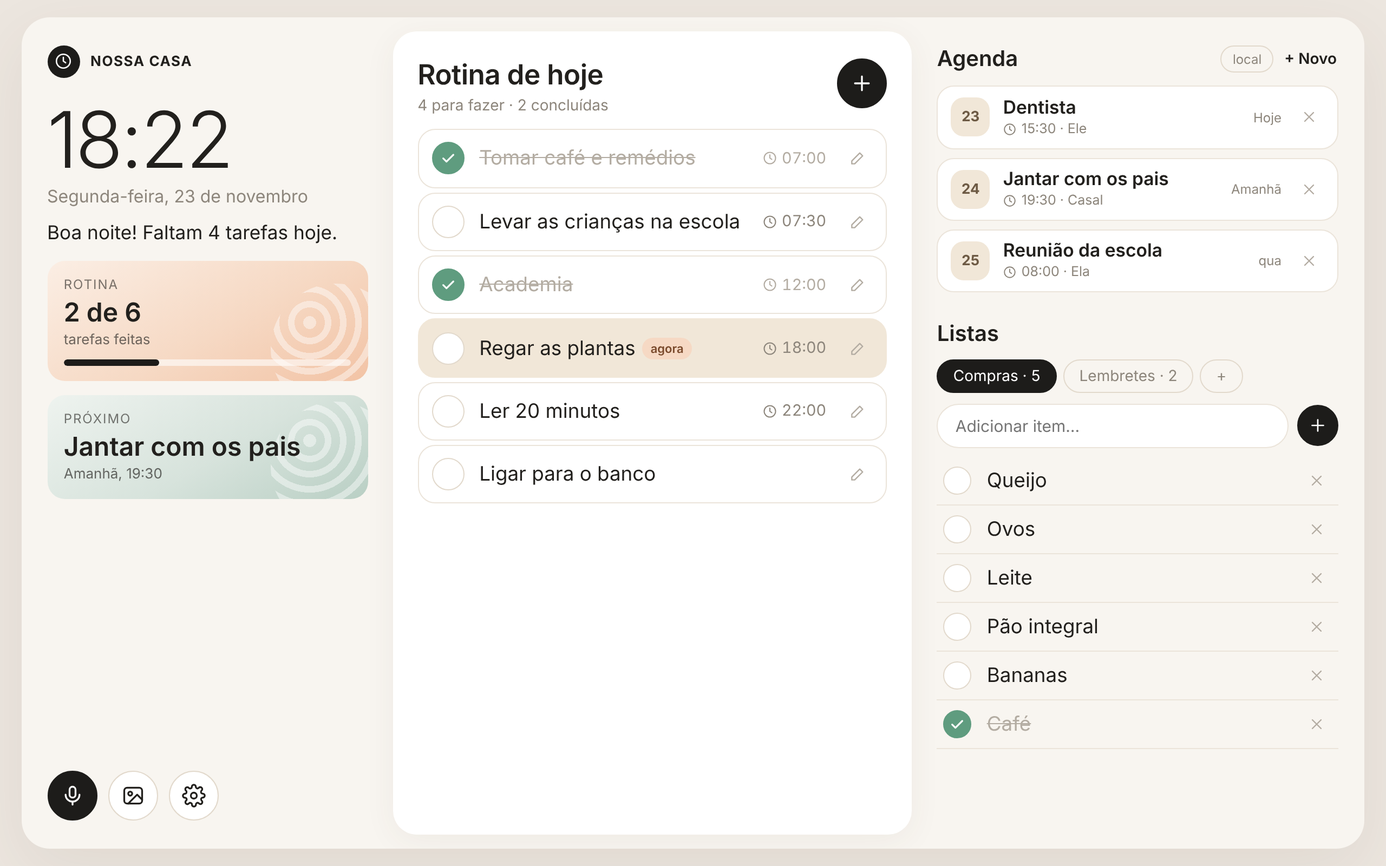
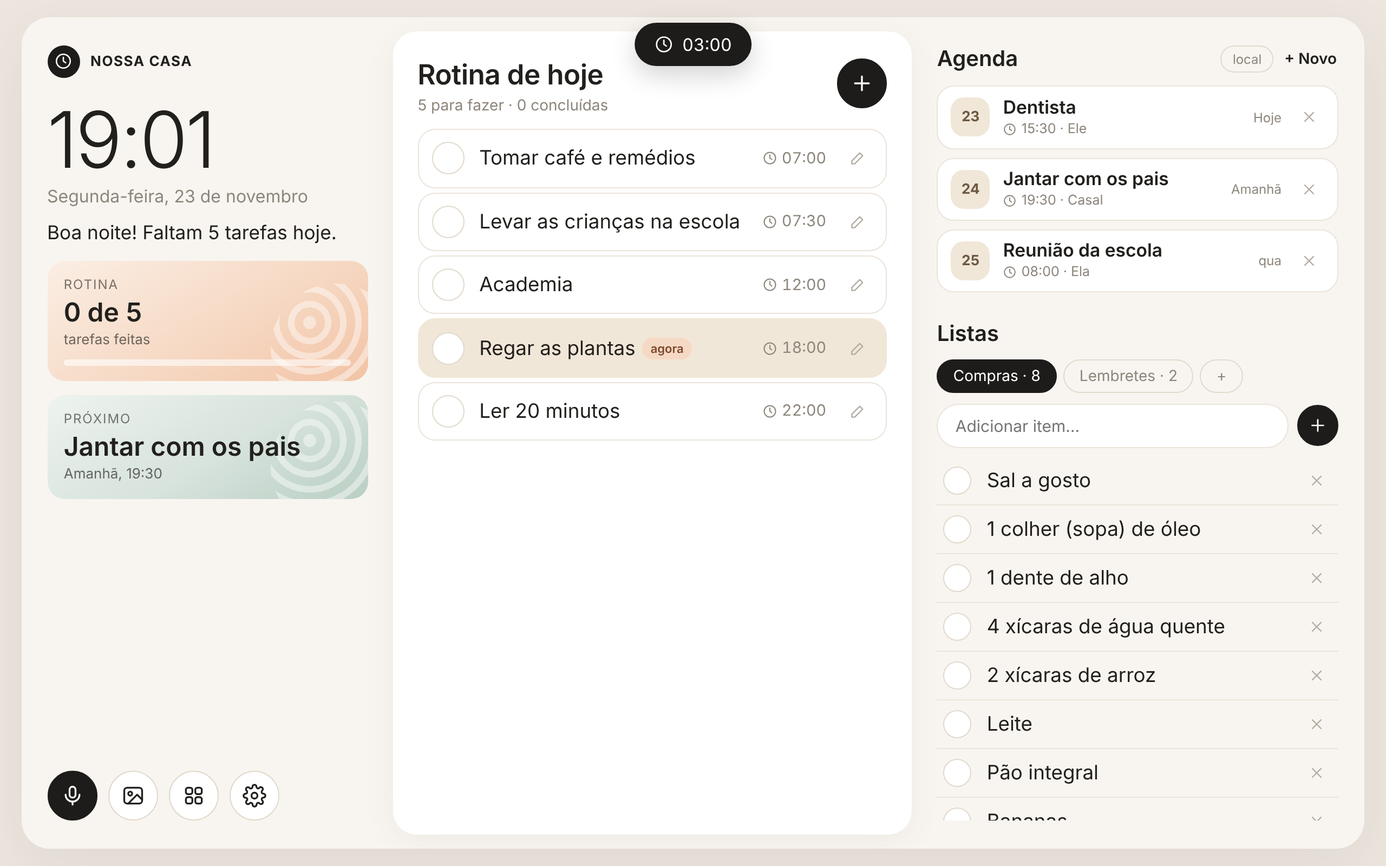
Painel da Casa: menu Mais funções com timer, cronômetro, pesquisa e receitas
Claude-Session: https://claude.ai/code/session_015vtG33z1dmpTi3uuNyJ4fA

diff --git a/painel-da-casa/app.js b/painel-da-casa/app.js
@@ -51,7 +51,8 @@
       },
       activeList: 'Compras',
       settings: { standbyMin: 3, slideSec: 12, feedUrl: '', voiceRate: 1 },
-      gcal: { events: [], at: 0 }
+      gcal: { events: [], at: 0 },
+      recipes: seedRecipes()
     };
   }
   var S;
@@ -215,8 +216,9 @@
   });
 
   // ---------- modal / formulários ----------
-  function openModal(title, html, onReady) {
+  function openModal(title, html, onReady, wide) {
     $('#modalTitle').textContent = title; $('#modalBody').innerHTML = html;
+    $('.modal-box').classList.toggle('wide', !!wide); $('.modal-box').scrollTop = 0;
     $('#modal').classList.remove('hidden'); if (onReady) onReady($('#modalBody'));
   }
   function closeModal() { $('#modal').classList.add('hidden'); }
@@ -455,6 +457,7 @@
   function handleCommand(raw) {
     var t = norm(raw).replace(/[.!?]/g, '').trim(), m;
     toast('🗣 "' + raw + '"', 2500);
+    if (extrasCommand(t)) return;
     // "adicionar leite e ovos na lista de compras"
     if ((m = t.match(/^(?:adiciona(?:r)?|adicione|coloca(?:r)?|coloque|inclui(?:r)?|bota(?:r)?)\s+(.+?)\s+(?:na|a|à|nas|em)\s+(?:lista\s+(?:de\s+|do\s+|da\s+)?)?(.+)$/))) {
       var listName = findList(m[2]);
@@ -515,6 +518,241 @@
   $('#micBtn').addEventListener('click', startListening);
   if (window.speechSynthesis) speechSynthesis.onvoiceschanged = function () {};
   window.painelComando = handleCommand; // para testes no console
+
+  // ---------- mais funções: timer, cronômetro, pesquisa, receitas ----------
+  if (!S.recipes) S.recipes = seedRecipes();
+  function seedRecipes() {
+    return [
+      { id: uid(), title: 'Bolo de cenoura', time: 40, serves: '10 fatias', tag: 'Doce',
+        ingredients: ['3 cenouras médias', '3 ovos', '1 xícara de óleo', '2 xícaras de açúcar', '2 xícaras de farinha de trigo', '1 colher (sopa) de fermento'],
+        steps: 'Bata no liquidificador a cenoura, os ovos e o óleo.\nMisture com o açúcar e a farinha, e por último o fermento.\nAsse em forno médio (180 °C) por cerca de 40 minutos.' },
+      { id: uid(), title: 'Arroz soltinho', time: 20, serves: '4 pessoas', tag: 'Básico',
+        ingredients: ['2 xícaras de arroz', '4 xícaras de água quente', '1 dente de alho', '1 colher (sopa) de óleo', 'Sal a gosto'],
+        steps: 'Refogue o alho no óleo e junte o arroz.\nAcrescente a água quente e o sal.\nCozinhe em fogo baixo com a panela semitampada até secar (cerca de 20 minutos).' }
+    ];
+  }
+  function fmtClock(ms, withTenths) {
+    ms = Math.max(0, ms); var s = Math.floor(ms / 1000), h = Math.floor(s / 3600), m = Math.floor(s / 60) % 60, ss = s % 60;
+    return (h ? h + ':' + pad(m) : pad(m)) + ':' + pad(ss) + (withTenths ? ',' + Math.floor(ms % 1000 / 100) : '');
+  }
+
+  // estado dos relógios (fica na memória enquanto o painel está aberto)
+  var T = { end: 0, total: 0, paused: 0, label: '', ringing: false };
+  var W = { start: 0, acc: 0, running: false, laps: [] };
+  var audioCtx = null, ringTimer = null;
+  function unlockAudio() {
+    var AC = window.AudioContext || window.webkitAudioContext; if (!AC) return;
+    if (!audioCtx) audioCtx = new AC();
+    if (audioCtx.state === 'suspended' && audioCtx.resume) audioCtx.resume();
+  }
+  function beep() {
+    if (!audioCtx) return;
+    [0, 0.25, 0.5].forEach(function (d) {
+      var o = audioCtx.createOscillator(), g = audioCtx.createGain(), t0 = audioCtx.currentTime + d;
+      o.frequency.value = 880; o.connect(g); g.connect(audioCtx.destination);
+      g.gain.setValueAtTime(0.0001, t0); g.gain.exponentialRampToValueAtTime(0.4, t0 + 0.02); g.gain.exponentialRampToValueAtTime(0.0001, t0 + 0.2);
+      o.start(t0); o.stop(t0 + 0.22);
+    });
+  }
+  function startTimer(min, label) {
+    unlockAudio(); stopRing();
+    T.total = Math.round(min * 60000); T.end = Date.now() + T.total; T.paused = 0; T.label = label || '';
+    updatePill();
+  }
+  function stopRing() { T.ringing = false; clearInterval(ringTimer); updatePill(); }
+  function timerLeft() { return T.paused ? T.paused : (T.end ? T.end - Date.now() : 0); }
+  function clockTick() {
+    if (T.end && !T.paused && !T.ringing && Date.now() >= T.end) {
+      T.end = 0; T.ringing = true; beep(); ringTimer = setInterval(beep, 1500);
+      setTimeout(stopRing, 60000);
+      say((T.label ? T.label + ': ' : '') + 'o tempo acabou!');
+      if (inStandby) exitStandby();
+    }
+    updatePill();
+    var el = document.getElementById('tmDisplay');
+    if (el) {
+      el.textContent = T.ringing ? '00:00' : fmtClock(timerLeft() + (T.end && !T.paused ? 999 : 0));
+      var b = document.getElementById('tmBar'); if (b) b.style.width = (T.total && (T.end || T.paused) ? (1 - timerLeft() / T.total) * 100 : 0) + '%';
+    }
+    var sw = document.getElementById('swDisplay');
+    if (sw) sw.textContent = fmtClock(W.acc + (W.running ? Date.now() - W.start : 0), true);
+  }
+  setInterval(clockTick, 200);
+  function updatePill() {
+    var p = $('#timerPill'), on = T.ringing || T.end || T.paused || W.running;
+    p.classList.toggle('hidden', !on); p.classList.toggle('ringing', T.ringing);
+    if (!on) return;
+    var txt = T.ringing ? 'Tempo esgotado! Toque para parar' :
+      (T.end || T.paused) ? (T.label ? T.label + ' · ' : '') + fmtClock(timerLeft() + (T.paused ? 0 : 999)) + (T.paused ? ' (pausado)' : '') :
+      'Cronômetro · ' + fmtClock(W.acc + Date.now() - W.start);
+    $('#timerPillText').textContent = txt;
+  }
+  $('#timerPill').addEventListener('click', function () { if (T.ringing) stopRing(); else openTimer(); });
+
+  function openTimer(tab) {
+    tab = tab || (W.running && !T.end ? 'sw' : 'tm');
+    openModal('Cronômetro e timer',
+      '<div class="seg"><button data-tab="tm" class="' + (tab === 'tm' ? 'on' : '') + '">Timer</button><button data-tab="sw" class="' + (tab === 'sw' ? 'on' : '') + '">Cronômetro</button></div>' +
+      '<div id="tmPane" class="' + (tab === 'tm' ? '' : 'hidden') + '">' +
+        '<div class="big-clock" id="tmDisplay">00:00</div><div class="ring big"><div id="tmBar"></div></div>' +
+        '<div class="presets">' + [1, 3, 5, 10, 15, 20, 30, 45, 60].map(function (m) { return '<button data-min="' + m + '">' + m + ' min</button>'; }).join('') + '</div>' +
+        '<div class="row center"><input id="tmCustom" type="number" min="1" placeholder="min" class="mini-input"><button class="btn ghost" id="tmGo">Iniciar</button>' +
+        '<button class="btn ghost" id="tmPause">Pausar</button><button class="btn danger" id="tmStop">Zerar</button></div>' +
+      '</div>' +
+      '<div id="swPane" class="' + (tab === 'sw' ? '' : 'hidden') + '">' +
+        '<div class="big-clock" id="swDisplay">00:00,0</div>' +
+        '<div class="row center"><button class="btn" id="swStart"></button><button class="btn ghost" id="swLap">Volta</button><button class="btn danger" id="swReset">Zerar</button></div>' +
+        '<ol class="laps" id="swLaps"></ol>' +
+      '</div>', function (root) {
+        function swBtn() { $('#swStart').textContent = W.running ? 'Pausar' : (W.acc ? 'Continuar' : 'Iniciar'); }
+        function laps() { $('#swLaps').innerHTML = W.laps.map(function (l, i) { return '<li><span>Volta ' + (i + 1) + '</span><span>' + fmtClock(l, true) + '</span></li>'; }).reverse().join(''); }
+        function pauseLbl() { $('#tmPause').textContent = T.paused ? 'Continuar' : 'Pausar'; }
+        swBtn(); laps(); pauseLbl(); clockTick();
+        Array.prototype.forEach.call(root.querySelectorAll('.seg button'), function (b) {
+          b.onclick = function () {
+            var t = b.getAttribute('data-tab');
+            root.querySelectorAll('.seg button')[0].classList.toggle('on', t === 'tm'); root.querySelectorAll('.seg button')[1].classList.toggle('on', t === 'sw');
+            $('#tmPane').classList.toggle('hidden', t !== 'tm'); $('#swPane').classList.toggle('hidden', t !== 'sw');
+          };
+        });
+        root.querySelector('.presets').onclick = function (e) { var b = e.target.closest('[data-min]'); if (b) { startTimer(+b.getAttribute('data-min')); pauseLbl(); } };
+        $('#tmGo').onclick = function () { var v = +$('#tmCustom').value; if (v > 0) { startTimer(v); pauseLbl(); } };
+        $('#tmPause').onclick = function () {
+          if (T.paused) { T.end = Date.now() + T.paused; T.paused = 0; } else if (T.end) { T.paused = T.end - Date.now(); T.end = 0; }
+          pauseLbl(); updatePill();
+        };
+        $('#tmStop').onclick = function () { T.end = 0; T.paused = 0; T.total = 0; stopRing(); pauseLbl(); clockTick(); };
+        $('#swStart').onclick = function () {
+          if (W.running) { W.acc += Date.now() - W.start; W.running = false; } else { W.start = Date.now(); W.running = true; }
+          swBtn(); updatePill();
+        };
+        $('#swLap').onclick = function () { if (!W.running) return; W.laps.push(W.acc + Date.now() - W.start); laps(); };
+        $('#swReset').onclick = function () { W = { start: 0, acc: 0, running: false, laps: [] }; swBtn(); laps(); clockTick(); updatePill(); };
+      }, true);
+  }
+
+  // pesquisa web: abre em nova aba (sites não podem ser embutidos no painel)
+  function webSearch(q) {
+    if (!q) return;
+    window.open('https://www.google.com/search?q=' + encodeURIComponent(q), '_blank');
+  }
+  function openSearch() {
+    openModal('Pesquisar na web',
+      '<form id="wsForm" class="quick big"><input id="wsInput" placeholder="O que você quer pesquisar?" autocomplete="off"><button type="submit" class="round dark" aria-label="Pesquisar">' + ic('search') + '</button></form>' +
+      '<p class="hint">Abre o resultado em uma nova aba. Dica: diga "pesquisar previsão do tempo" no microfone.</p>' +
+      '<div class="presets left">' + ['Previsão do tempo', 'Notícias de hoje', 'Cotação do dólar', 'Farmácia aberta perto de mim', 'Receita de pão caseiro'].map(function (s) { return '<button data-q="' + esc(s) + '">' + esc(s) + '</button>'; }).join('') + '</div>',
+      function (root) {
+        $('#wsInput').focus();
+        $('#wsForm').onsubmit = function (e) { e.preventDefault(); webSearch($('#wsInput').value.trim()); };
+        root.querySelector('.presets').onclick = function (e) { var b = e.target.closest('[data-q]'); if (b) webSearch(b.getAttribute('data-q')); };
+      }, true);
+  }
+
+  // receitas
+  function openRecipes(filter) {
+    filter = filter || '';
+    openModal('Receitas',
+      '<div class="row"><form id="rcSearch" class="quick" style="flex:1;margin:0"><input id="rcQ" placeholder="Buscar receita ou ingrediente…" value="' + esc(filter) + '" autocomplete="off"></form>' +
+      '<button class="btn" id="rcNew">+ Nova receita</button></div>' +
+      '<div class="rc-grid" id="rcGrid"></div>', function () {
+        function draw() {
+          var q = norm($('#rcQ').value.trim());
+          var list = S.recipes.filter(function (r) { return !q || norm(r.title + ' ' + (r.tag || '') + ' ' + r.ingredients.join(' ')).indexOf(q) >= 0; })
+            .sort(function (a, b) { return a.title.localeCompare(b.title); });
+          $('#rcGrid').innerHTML = list.length ? list.map(function (r, i) {
+            return '<button class="rc-card c' + (i % 3) + '" data-id="' + r.id + '"><span class="rc-tag">' + esc(r.tag || 'Receita') + '</span>' +
+              '<span class="rc-title">' + esc(r.title) + '</span><span class="rc-meta">' + ic('clock') + (r.time ? r.time + ' min' : '—') + (r.serves ? ' · ' + esc(r.serves) : '') + '</span></button>';
+          }).join('') : '<p class="empty">Nenhuma receita encontrada.</p>';
+        }
+        draw();
+        $('#rcQ').oninput = draw; $('#rcSearch').onsubmit = function (e) { e.preventDefault(); };
+        $('#rcNew').onclick = function () { openRecipeForm(); };
+        $('#rcGrid').onclick = function (e) { var c = e.target.closest('[data-id]'); if (c) openRecipe(c.getAttribute('data-id')); };
+      }, true);
+  }
+  function findRecipe(id) { return S.recipes.filter(function (r) { return r.id === id; })[0]; }
+  function openRecipe(id) {
+    var r = findRecipe(id); if (!r) return;
+    openModal(r.title,
+      '<div class="rc-head"><span class="chip">' + esc(r.tag || 'Receita') + '</span>' + (r.time ? '<span class="chip">' + r.time + ' min</span>' : '') + (r.serves ? '<span class="chip">' + esc(r.serves) + '</span>' : '') + '</div>' +
+      '<div class="rc-body"><div><h4>Ingredientes</h4><ul class="rc-ing">' + r.ingredients.map(function (i) { return '<li>' + esc(i) + '</li>'; }).join('') + '</ul></div>' +
+      '<div><h4>Modo de preparo</h4><ol class="rc-steps">' + r.steps.split(/\n+/).filter(Boolean).map(function (s) { return '<li>' + esc(s) + '</li>'; }).join('') + '</ol></div></div>' +
+      '<div class="row">' + (r.time ? '<button class="btn" id="rcTimer">' + ic('clock') + ' Timer de ' + r.time + ' min</button>' : '') +
+      '<button class="btn ghost" id="rcShop">' + ic('cart') + ' Ingredientes nas compras</button>' +
+      '<button class="btn ghost" id="rcEdit">Editar</button><button class="btn ghost" id="rcBack">Voltar</button></div>', function () {
+        if (r.time) $('#rcTimer').onclick = function () { startTimer(r.time, r.title); closeModal(); toast('Timer de ' + r.time + ' min iniciado para ' + r.title + '.'); };
+        $('#rcShop').onclick = function () {
+          r.ingredients.forEach(function (i) { addToList('Compras', i); });
+          S.activeList = 'Compras'; save(); renderLists(); toast(r.ingredients.length + ' ingredientes adicionados em Compras.');
+        };
+        $('#rcEdit').onclick = function () { openRecipeForm(r); };
+        $('#rcBack').onclick = function () { openRecipes(); };
+      }, true);
+  }
+  function openRecipeForm(r) {
+    var isNew = !r; r = r || { title: '', time: '', serves: '', tag: '', ingredients: [], steps: '' };
+    openModal(isNew ? 'Nova receita' : 'Editar receita',
+      '<div class="field"><label>Nome</label><input id="rfTitle" value="' + esc(r.title) + '" placeholder="Ex.: Lasanha da vó"></div>' +
+      '<div class="row"><div class="field" style="flex:1"><label>Tempo (min)</label><input id="rfTime" type="number" min="0" value="' + esc(r.time) + '"></div>' +
+      '<div class="field" style="flex:1"><label>Rende</label><input id="rfServes" value="' + esc(r.serves) + '" placeholder="Ex.: 6 porções"></div>' +
+      '<div class="field" style="flex:1"><label>Categoria</label><input id="rfTag" value="' + esc(r.tag) + '" placeholder="Ex.: Doce, Almoço"></div></div>' +
+      '<div class="field"><label>Ingredientes (um por linha)</label><textarea id="rfIng" rows="6">' + esc(r.ingredients.join('\n')) + '</textarea></div>' +
+      '<div class="field"><label>Modo de preparo (um passo por linha)</label><textarea id="rfSteps" rows="6">' + esc(r.steps) + '</textarea></div>' +
+      '<div class="row"><button class="btn" id="rfSave">Salvar</button>' + (isNew ? '' : '<button class="btn danger" id="rfDel">Excluir</button>') + '<button class="btn ghost" id="rfCancel">Cancelar</button></div>',
+      function () {
+        $('#rfTitle').focus();
+        $('#rfSave').onclick = function () {
+          var t = $('#rfTitle').value.trim(); if (!t) return;
+          var data = { title: t, time: +$('#rfTime').value || 0, serves: $('#rfServes').value.trim(), tag: $('#rfTag').value.trim(),
+            ingredients: $('#rfIng').value.split('\n').map(function (x) { return x.trim(); }).filter(Boolean), steps: $('#rfSteps').value.trim() };
+          if (isNew) { data.id = uid(); S.recipes.push(data); } else { for (var k in data) r[k] = data[k]; }
+          save(); openRecipe(isNew ? data.id : r.id);
+        };
+        if (!isNew) $('#rfDel').onclick = function (ev) { if (confirmInline(ev.target)) { S.recipes = S.recipes.filter(function (x) { return x.id !== r.id; }); save(); openRecipes(); } };
+        $('#rfCancel').onclick = function () { isNew ? openRecipes() : openRecipe(r.id); };
+      }, true);
+  }
+
+  // menu "mais"
+  function openMore() {
+    var items = [
+      { k: 'timer', t: 'Cronômetro', s: 'Timer e cronômetro', i: 'clock', c: 'c0' },
+      { k: 'search', t: 'Pesquisa', s: 'Buscar na web', i: 'search', c: 'c1' },
+      { k: 'recipes', t: 'Receitas', s: S.recipes.length + ' salvas', i: 'book', c: 'c2' }
+    ];
+    openModal('Mais funções', '<div class="more-grid">' + items.map(function (x) {
+      return '<button class="more-tile ' + x.c + '" data-k="' + x.k + '"><span class="more-ic">' + ic(x.i) + '</span><span class="more-t">' + x.t + '</span><span class="more-s">' + x.s + '</span></button>';
+    }).join('') + '</div>', function (root) {
+      root.querySelector('.more-grid').onclick = function (e) {
+        var b = e.target.closest('[data-k]'); if (!b) return; var k = b.getAttribute('data-k');
+        if (k === 'timer') openTimer(); else if (k === 'search') openSearch(); else openRecipes();
+      };
+    }, true);
+  }
+  $('#moreBtn').addEventListener('click', openMore);
+
+  // comandos de voz extras
+  var NUM = { um: 1, uma: 1, dois: 2, duas: 2, tres: 3, quatro: 4, cinco: 5, seis: 6, sete: 7, oito: 8, nove: 9, dez: 10, quinze: 15, vinte: 20, trinta: 30, quarenta: 40, cinquenta: 50, sessenta: 60, meia: 0.5 };
+  function toNum(w) { return isNaN(+w) ? NUM[w] : +w; }
+  function extrasCommand(t) {
+    var m;
+    if ((m = t.match(/(?:timer|temporizador|alarme|cronometro|contar)\s+(?:de\s+|para\s+|por\s+)?(\d+|[a-z]+)\s+(minutos?|segundos?|horas?)/)) && toNum(m[1])) {
+      var n = toNum(m[1]), min = /seg/.test(m[2]) ? n / 60 : /hora/.test(m[2]) ? n * 60 : n;
+      startTimer(min); say('Timer de ' + m[1] + ' ' + m[2] + ' iniciado.'); return true;
+    }
+    if (/(parar|cancelar|desligar|zerar).*(timer|alarme|temporizador)/.test(t) || (T.ringing && /^(parar|para|ok|chega)$/.test(t))) {
+      T.end = 0; T.paused = 0; stopRing(); say('Timer cancelado.'); return true;
+    }
+    if (/quanto tempo falta/.test(t)) { say(T.end ? 'Faltam ' + fmtClock(timerLeft() + 999) + '.' : 'Nenhum timer ligado.'); return true; }
+    if (/^(iniciar|abrir|ligar)?\s*cronometro$/.test(t)) { W = { start: Date.now(), acc: 0, running: true, laps: [] }; openTimer('sw'); say('Cronômetro iniciado.'); return true; }
+    if ((m = t.match(/^(?:pesquisa(?:r)?|pesquise|procura(?:r)?|procure|buscar|busque|google)\s+(?:por\s+|sobre\s+)?(.+)$/))) { say('Pesquisando ' + m[1] + '.'); webSearch(m[1]); return true; }
+    if ((m = t.match(/(?:receita|receitas)(?:\s+(?:de|do|da))?\s*(.*)$/)) && !/adicion|coloc/.test(t)) {
+      var q = m[1].trim(), hit = q && S.recipes.filter(function (r) { return norm(r.title).indexOf(q) >= 0; })[0];
+      if (hit) { openRecipe(hit.id); say('Abrindo ' + hit.title + '.'); } else { openRecipes(q); say(q ? 'Não achei "' + q + '". Veja as receitas salvas.' : 'Suas receitas.'); }
+      return true;
+    }
+    return false;
+  }
 
   // ---------- início ----------
   function renderAll() { renderRoutine(); renderAgenda(); renderLists(); }

diff --git a/painel-da-casa/style.css b/painel-da-casa/style.css
@@ -175,3 +175,52 @@ hr{border:0;border-top:1px solid var(--line);margin:18px 0}
   .sb-overlay{flex-direction:column;align-items:flex-start;justify-content:flex-end;gap:3vh}
   .sb-side{align-items:flex-start}
 }
+
+/* ---------- Mais funções ---------- */
+.modal-box.wide{max-width:900px}
+.field textarea{background:var(--paper);border:1px solid var(--line-2);border-radius:12px;padding:11px 13px;font-size:16px;color:var(--text);outline:none;resize:vertical;font-family:inherit;line-height:1.45}
+.btn{display:inline-flex;align-items:center;gap:8px}
+.btn svg{width:18px;height:18px}
+.row.center{justify-content:center}
+.more-grid{display:grid;grid-template-columns:repeat(3,1fr);gap:14px}
+.more-tile{border:0;border-radius:20px;padding:22px 18px;text-align:left;display:flex;flex-direction:column;gap:6px;min-height:150px;position:relative;overflow:hidden}
+.more-tile.c0,.rc-card.c0{background:linear-gradient(150deg,#fbeee4 0%,var(--peach) 60%,var(--peach-2) 100%)}
+.more-tile.c1,.rc-card.c1{background:linear-gradient(150deg,#eef3ef 0%,var(--sage) 60%,var(--sage-2) 100%)}
+.more-tile.c2,.rc-card.c2{background:linear-gradient(150deg,#faf4ea 0%,var(--sand) 60%,#e8d6bd 100%)}
+.more-ic{width:44px;height:44px;border-radius:50%;background:rgba(255,255,255,.75);display:flex;align-items:center;justify-content:center;margin-bottom:auto}
+.more-t{font-size:19px;font-weight:600}
+.more-s{font-size:13px;color:rgba(34,32,29,.6)}
+.seg{display:flex;background:var(--paper);border:1px solid var(--line-2);border-radius:99px;padding:4px;width:max-content;margin:0 auto 10px}
+.seg button{border:0;background:transparent;border-radius:99px;padding:8px 20px;font-size:15px;color:var(--muted)}
+.seg button.on{background:var(--ink);color:#fff}
+.big-clock{text-align:center;font-size:clamp(56px,14vh,110px);font-weight:200;letter-spacing:-.03em;font-variant-numeric:tabular-nums;margin:8px 0}
+.ring.big{height:8px;max-width:420px;margin:0 auto 18px;background:var(--line)}
+.presets{display:flex;flex-wrap:wrap;gap:8px;justify-content:center;margin-bottom:16px}
+.presets.left{justify-content:flex-start;margin-top:12px}
+.presets button{border:1px solid var(--line-2);background:var(--paper);border-radius:99px;padding:9px 16px;font-size:15px}
+.mini-input{width:80px;background:var(--paper);border:1px solid var(--line-2);border-radius:99px;padding:11px 14px;font-size:15px;outline:none;text-align:center}
+.laps{list-style:none;padding:0;margin:14px auto 0;max-width:360px;max-height:180px;overflow-y:auto}
+.laps li{display:flex;justify-content:space-between;padding:8px 4px;border-bottom:1px solid var(--line);font-variant-numeric:tabular-nums}
+.quick.big input{padding:14px 20px;font-size:17px}
+.rc-grid{display:grid;grid-template-columns:repeat(auto-fill,minmax(190px,1fr));gap:12px;margin-top:14px}
+.rc-card{border:0;border-radius:18px;padding:16px;text-align:left;display:flex;flex-direction:column;gap:6px;min-height:130px}
+.rc-tag{font-size:11px;text-transform:uppercase;letter-spacing:.08em;color:rgba(34,32,29,.55)}
+.rc-title{font-size:18px;font-weight:600;margin-top:auto}
+.rc-meta{font-size:13px;color:rgba(34,32,29,.65);display:flex;align-items:center;gap:4px}
+.rc-meta svg{width:14px;height:14px}
+.rc-head{display:flex;gap:8px;flex-wrap:wrap;margin-bottom:14px}
+.rc-body{display:grid;grid-template-columns:1fr 1.4fr;gap:20px;margin-bottom:18px}
+.rc-body h4{margin:0 0 8px;font-size:15px}
+.rc-ing{margin:0;padding:0;list-style:none}
+.rc-ing li{padding:9px 12px;background:var(--paper);border:1px solid var(--line);border-radius:12px;margin-bottom:6px;font-size:16px}
+.rc-steps{margin:0;padding-left:22px}
+.rc-steps li{padding:6px 0 10px;font-size:17px;line-height:1.5}
+.timer-pill{position:fixed;top:2.6vh;left:50%;transform:translateX(-50%);z-index:55;display:flex;align-items:center;gap:8px;
+  background:var(--ink);color:#fff;border:0;border-radius:99px;padding:10px 18px;font-size:16px;font-variant-numeric:tabular-nums;box-shadow:0 8px 24px rgba(0,0,0,.18)}
+.timer-pill svg{width:18px;height:18px}
+.timer-pill.ringing{background:var(--danger);animation:pulse 1.2s infinite}
+@media (max-width:900px){
+  .more-grid{grid-template-columns:1fr}
+  .more-tile{min-height:110px}
+  .rc-body{grid-template-columns:1fr}
+}

diff --git a/painel-da-casa/index.html b/painel-da-casa/index.html
@@ -23,6 +23,9 @@
     <symbol id="i-x" viewBox="0 0 24 24"><path d="M6 6l12 12M18 6L6 18"/></symbol>
     <symbol id="i-clock" viewBox="0 0 24 24"><circle cx="12" cy="12" r="9"/><path d="M12 7v5l3 2"/></symbol>
     <symbol id="i-cal" viewBox="0 0 24 24"><rect x="3" y="5" width="18" height="16" rx="3"/><path d="M3 10h18M8 3v4M16 3v4"/></symbol>
+    <symbol id="i-grid" viewBox="0 0 24 24"><rect x="4" y="4" width="6.5" height="6.5" rx="2"/><rect x="13.5" y="4" width="6.5" height="6.5" rx="2"/><rect x="4" y="13.5" width="6.5" height="6.5" rx="2"/><rect x="13.5" y="13.5" width="6.5" height="6.5" rx="2"/></symbol>
+    <symbol id="i-search" viewBox="0 0 24 24"><circle cx="11" cy="11" r="6.5"/><path d="M20 20l-4.2-4.2"/></symbol>
+    <symbol id="i-book" viewBox="0 0 24 24"><path d="M5 4.5h9a3 3 0 0 1 3 3V20H8a3 3 0 0 1-3-3V4.5z"/><path d="M5 17a3 3 0 0 1 3-3h9M9 8.5h4"/></symbol>
     <symbol id="i-cart" viewBox="0 0 24 24"><path d="M3 4h2l2.4 11h10.2L20 8H6.2"/><circle cx="9" cy="19.5" r="1.3"/><circle cx="17" cy="19.5" r="1.3"/></symbol>
   </defs>
 </svg>
@@ -58,6 +61,7 @@
     <div class="actions">
       <button class="round dark" id="micBtn" title="Falar com o painel"><svg><use xlink:href="#i-mic" href="#i-mic"/></svg></button>
       <button class="round" id="standbyBtn" title="Modo standby"><svg><use xlink:href="#i-photo" href="#i-photo"/></svg></button>
+      <button class="round" id="moreBtn" title="Mais funções"><svg><use xlink:href="#i-grid" href="#i-grid"/></svg></button>
       <button class="round" id="settingsBtn" title="Configurações"><svg><use xlink:href="#i-gear" href="#i-gear"/></svg></button>
     </div>
   </aside>
@@ -103,6 +107,7 @@
 </div>
 
 <div id="voiceToast" class="toast hidden"></div>
+<button id="timerPill" class="timer-pill hidden"><svg><use xlink:href="#i-clock" href="#i-clock"/></svg><span id="timerPillText"></span></button>
 
 <!-- Standby -->
 <section id="standby" class="hidden">

diff --git a/painel-da-casa/sw.js b/painel-da-casa/sw.js
@@ -1,5 +1,5 @@
 // Cache simples para funcionar offline
-var CACHE = 'painel-v2';
+var CACHE = 'painel-v3';
 var FILES = ['./', './index.html', './style.css', './app.js', './manifest.json', './icon.svg'];
 self.addEventListener('install', function (e) { e.waitUntil(caches.open(CACHE).then(function (c) { return c.addAll(FILES); })); self.skipWaiting(); });
 self.addEventListener('activate', function (e) { e.waitUntil(caches.keys().then(function (ks) { return Promise.all(ks.filter(function (k) { return k !== CACHE; }).map(function (k) { return caches.delete(k); })); })); });

diff --git a/painel-da-casa/LEIAME.md b/painel-da-casa/LEIAME.md
@@ -16,6 +16,13 @@ Funciona também no computador e no celular.
   - "marcar academia como feito" / "terminei regar as plantas"
   - "o que tem na lista de compras" / "limpar comprados"
   - "modo standby" / "que horas são"
+  - "timer de 10 minutos" / "parar timer" / "quanto tempo falta" / "iniciar cronômetro"
+  - "pesquisar previsão do tempo"
+  - "receita de bolo de cenoura" / "receitas"
+- **Mais funções** (botão de quadradinhos):
+  - **Timer e cronômetro**: atalhos de 1 a 60 min, pausa e alarme sonoro. O tempo aparece no topo da tela mesmo com a janela fechada.
+  - **Pesquisa na web**: abre o Google numa nova aba.
+  - **Receitas**: cadastrar, buscar por nome ou ingrediente, ler em letra grande, mandar os ingredientes para a lista de Compras e iniciar o timer da receita.
 
 Os dados ficam salvos no próprio aparelho (localStorage). Use **⚙ > Exportar backup** de vez em quando.
 
